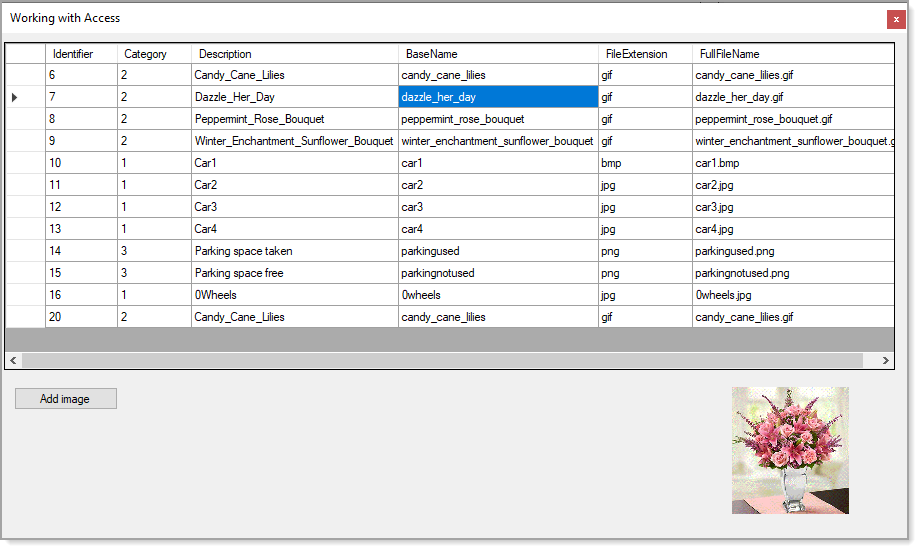
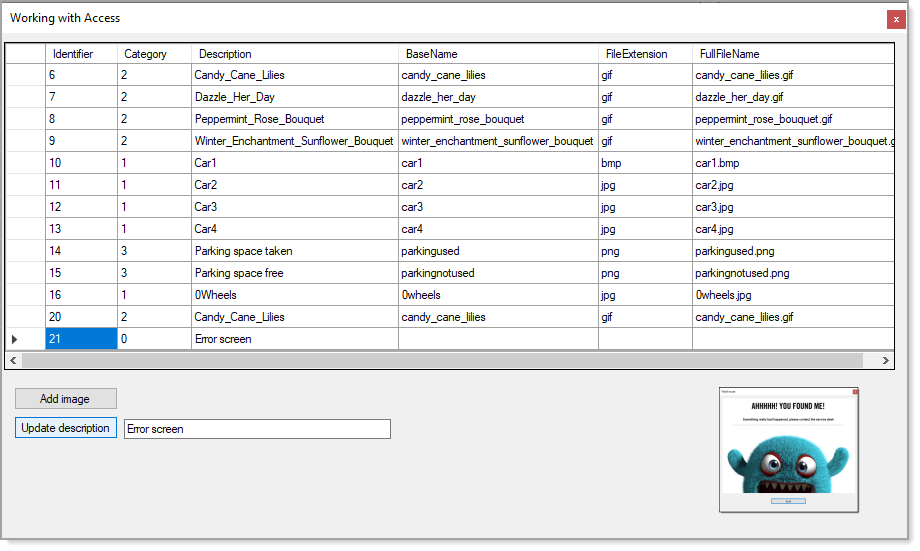
Refactors, added partial update method

diff --git a/WorkingWithMsAccessImages/Classes/Operations.cs b/WorkingWithMsAccessImages/Classes/Operations.cs
@@ -2,7 +2,7 @@
 using System.Data;
 using System.Data.OleDb;
 using System.IO;
-using static WorkingWithMsAccessImages.Classes.ConversionModule;
+using static WorkingWithMsAccessImages.Classes.ConversionHelpers;
 
 namespace WorkingWithMsAccessImages.Classes
 {
@@ -10,9 +10,17 @@ namespace WorkingWithMsAccessImages.Classes
     {
         public DataTable PictureDataTable { get; set; }
         public DataTable CategoriesDataTable { get; set; }
+        
         public string ConnectionString = 
             "Provider=Microsoft.ACE.OLEDB.12.0;Data Source=Database1.accdb";
 
+        /// <summary>
+        /// Add new record, does not populate all columns
+        /// </summary>
+        /// <param name="fileName">Existing image file</param>
+        /// <param name="category">primary key</param>
+        /// <param name="description">Image description</param>
+        /// <returns></returns>
         public PictureItem AddImage(string fileName, int category, string description)
         {
 
@@ -59,13 +67,13 @@ namespace WorkingWithMsAccessImages.Classes
                         {
                             ParameterName = "@BaseName",
                             DbType = DbType.String,
-                            Value = System.IO.Path.GetFileNameWithoutExtension(fileName).ToLower()
+                            Value = Path.GetFileNameWithoutExtension(fileName).ToLower()
                         },
                         new OleDbParameter
                         {
                             ParameterName = "@FileExtension",
                             DbType = DbType.String,
-                            Value = System.IO.Path.GetExtension(fileName).Replace(".", "").ToLower()
+                            Value = Path.GetExtension(fileName).Replace(".", "").ToLower()
                         }
                     });
 
@@ -93,6 +101,65 @@ namespace WorkingWithMsAccessImages.Classes
                 }
             }
         }
+        /// <summary>
+        /// Update description for a record
+        /// </summary>
+        /// <param name="primaryKey">Identifier for record to update</param>
+        /// <param name="description">Description of picture</param>
+        /// <returns></returns>
+        public PictureItem UpdateCurrentDescription(int primaryKey, string description)
+        {
+            var results = new PictureItem() { Success = false };
+            
+            using (var cn = new OleDbConnection {ConnectionString = ConnectionString})
+            {
+                using (var cmd = new OleDbCommand {Connection = cn})
+                {
+                    cmd.CommandText = 
+                        "UPDATE Pictures SET Description = @Description " + 
+                        "WHERE Identifier = @Identifier";
+
+                    var descriptionParameter = new OleDbParameter
+                    {
+                        DbType = DbType.String,
+                        ParameterName = "@Description",
+                        Value = description
+                    };
+
+                    cmd.Parameters.Add(descriptionParameter);
+                    
+                    var identifierParameter = new OleDbParameter
+                    {
+                        DbType = DbType.String,
+                        ParameterName = "@Identifier",
+                        Value = primaryKey
+                    };
+
+                    cmd.Parameters.Add(identifierParameter);
+
+                    try
+                    {
+                        cn.Open();
+                        int affected = cmd.ExecuteNonQuery();
+                        if (affected == 1)
+                        {
+                            results.Success = true;
+                        }
+                    }
+                    catch (Exception e)
+                    {
+                        results.ErrorMessage = e.Message;
+                        return results;
+                    }
+
+                }
+            }
+
+            return results;
+        }
+        /// <summary>
+        /// Load two tables, category and pictures
+        /// </summary>
         public void LoadImages()
         {
             using (var cn = new OleDbConnection { ConnectionString = ConnectionString })
@@ -121,6 +188,11 @@ namespace WorkingWithMsAccessImages.Classes
                 }
             }
         }
+        /// <summary>
+        /// Load single record by primary key
+        /// </summary>
+        /// <param name="primaryKey">Primary key of record to locate and load</param>
+        /// <returns></returns>
         public Tuple<string, byte[]> LoadSingleImage(int primaryKey)
         {
             byte[] imageBytes;
@@ -146,7 +218,9 @@ namespace WorkingWithMsAccessImages.Classes
                 }
             }
         }
-
+        /// <summary>
+        /// Load two DataTable
+        /// </summary>
         public Operations()
         {
             LoadImages();

diff --git a/WorkingWithMsAccessImages/Form1.Designer.cs b/WorkingWithMsAccessImages/Form1.Designer.cs
@@ -32,6 +32,8 @@ namespace WorkingWithMsAccessImages
             this.AddImageButton = new System.Windows.Forms.Button();
             this.dataGridView1 = new System.Windows.Forms.DataGridView();
             this.pictureBox1 = new System.Windows.Forms.PictureBox();
+            this.UpdateCurrentDescriptionButton = new System.Windows.Forms.Button();
+            this.DescriptionTextBox = new System.Windows.Forms.TextBox();
             ((System.ComponentModel.ISupportInitialize)(this.dataGridView1)).BeginInit();
             ((System.ComponentModel.ISupportInitialize)(this.pictureBox1)).BeginInit();
             this.SuspendLayout();
@@ -64,11 +66,30 @@ namespace WorkingWithMsAccessImages
             this.pictureBox1.TabIndex = 2;
             this.pictureBox1.TabStop = false;
             // 
+            // UpdateCurrentDescriptionButton
+            // 
+            this.UpdateCurrentDescriptionButton.Location = new System.Drawing.Point(12, 383);
+            this.UpdateCurrentDescriptionButton.Name = "UpdateCurrentDescriptionButton";
+            this.UpdateCurrentDescriptionButton.Size = new System.Drawing.Size(104, 23);
+            this.UpdateCurrentDescriptionButton.TabIndex = 3;
+            this.UpdateCurrentDescriptionButton.Text = "Update description";
+            this.UpdateCurrentDescriptionButton.UseVisualStyleBackColor = true;
+            this.UpdateCurrentDescriptionButton.Click += new System.EventHandler(this.UpdateCurrentDescriptionButton_Click);
+            // 
+            // DescriptionTextBox
+            // 
+            this.DescriptionTextBox.Location = new System.Drawing.Point(122, 386);
+            this.DescriptionTextBox.Name = "DescriptionTextBox";
+            this.DescriptionTextBox.Size = new System.Drawing.Size(267, 20);
+            this.DescriptionTextBox.TabIndex = 4;
+            // 
             // Form1
             // 
             this.AutoScaleDimensions = new System.Drawing.SizeF(6F, 13F);
             this.AutoScaleMode = System.Windows.Forms.AutoScaleMode.Font;
             this.ClientSize = new System.Drawing.Size(905, 505);
+            this.Controls.Add(this.DescriptionTextBox);
+            this.Controls.Add(this.UpdateCurrentDescriptionButton);
             this.Controls.Add(this.pictureBox1);
             this.Controls.Add(this.dataGridView1);
             this.Controls.Add(this.AddImageButton);
@@ -79,6 +100,7 @@ namespace WorkingWithMsAccessImages
             ((System.ComponentModel.ISupportInitialize)(this.dataGridView1)).EndInit();
             ((System.ComponentModel.ISupportInitialize)(this.pictureBox1)).EndInit();
             this.ResumeLayout(false);
+            this.PerformLayout();
 
         }
 
@@ -87,6 +109,8 @@ namespace WorkingWithMsAccessImages
         private System.Windows.Forms.Button AddImageButton;
         private System.Windows.Forms.DataGridView dataGridView1;
         private System.Windows.Forms.PictureBox pictureBox1;
+        private System.Windows.Forms.Button UpdateCurrentDescriptionButton;
+        private System.Windows.Forms.TextBox DescriptionTextBox;
     }
 }
 

diff --git a/WorkingWithMsAccessImages/Classes/ConversionHelpers.cs b/WorkingWithMsAccessImages/Classes/ConversionHelpers.cs
@@ -1,0 +1,50 @@
+using System;
+using System.IO;
+
+namespace WorkingWithMsAccessImages.Classes
+{
+    public static class ConversionHelpers
+    {
+        /// <summary>
+        /// Saves bytes to a new image file
+        /// </summary>
+        /// <param name="imageData"></param>
+        /// <param name="filePath"></param>
+        /// <returns></returns>
+        /// <remarks></remarks>
+        public static bool ConvertBytesToImageFile(byte[] imageData, string filePath)
+        {
+            try
+            {
+                var fileStream = new FileStream(filePath, FileMode.OpenOrCreate, FileAccess.Write);
+                var binaryWriter = new BinaryWriter(fileStream);
+
+                binaryWriter.Write(imageData);
+                binaryWriter.Flush();
+                binaryWriter.Close();
+                fileStream.Close();
+                binaryWriter = null;
+                fileStream.Dispose();
+
+                return true;
+
+            }
+            catch (Exception)
+            {
+                return false;
+            }
+
+        }
+        public static byte[] FileImageBytes(string fileName)
+        {
+            var fileStream = new FileStream(fileName, FileMode.Open, FileAccess.Read, FileShare.Read);
+            var imageStream = new StreamReader(fileStream);
+            byte[] byteArray = new byte[((int)(fileStream.Length - 1)) + 1];
+
+            fileStream.Read(byteArray, 0, (int)fileStream.Length);
+
+            return byteArray;
+
+        }
+    }
+}

diff --git a/WorkingWithMsAccessImages/Form1.cs b/WorkingWithMsAccessImages/Form1.cs
@@ -57,5 +57,29 @@ namespace WorkingWithMsAccessImages
                     "Failed to add image\n");
             }
         }
+
+        private void UpdateCurrentDescriptionButton_Click(object sender, EventArgs e)
+        {
+            if (_bindingSource.Current is null)
+            {
+                return;
+            }
+
+            if (string.IsNullOrWhiteSpace(DescriptionTextBox.Text)) return;
+            
+            var row = ((DataRowView) _bindingSource.Current).Row;
+            var id = row.Field<int>("Identifier");
+            var ops = new Operations();
+                
+            var result = ops.UpdateCurrentDescription(id, DescriptionTextBox.Text);
+            if (result.Success == false)
+            {
+                MessageBox.Show($@"{result.ErrorMessage}");
+            }
+            else
+            {
+                row.SetField("Description", DescriptionTextBox.Text);
+            }
+        }
     }
 }

diff --git a/WorkingWithMsAccessImages/readme.md b/WorkingWithMsAccessImages/readme.md
@@ -2,7 +2,14 @@
 
 Simple example for inserting images into a MS-Access database. Hacked from my VB.NET [code sample](https://github.com/karenpayneoregon/WorkingWithAccessDatabases/tree/master/AddingMultipleRecords).
 
+There is enough done in the code to prove add and edit works.
+
 - Although this fully works there are clean-up to be done.
+- Add new record does not populate all columns in the database table, just enough to show this works.
+- There is a one field update method for description to show editing works. We could do the same for picture column using the same technique used in the add new record and would be successful.
 - Images are shown in a PictureBox but could also be shown in the DataGridView rather than a PictureBox.
+
+
+Here a record was added followed by changing the new record's description column.
 
 ![screen](assets/ImageDataGridView.png)
